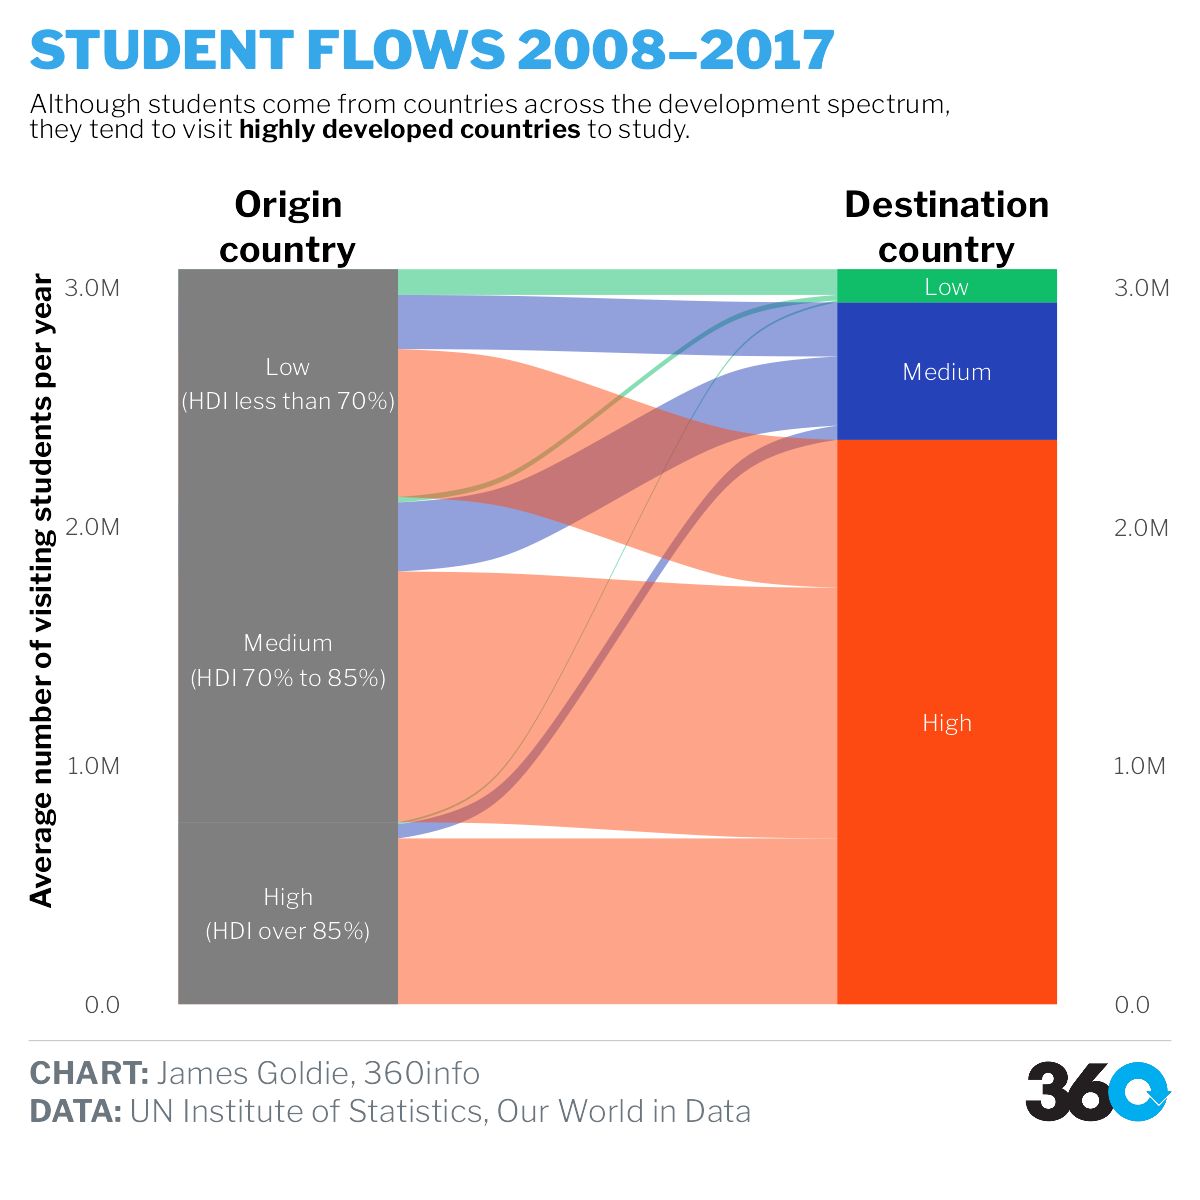
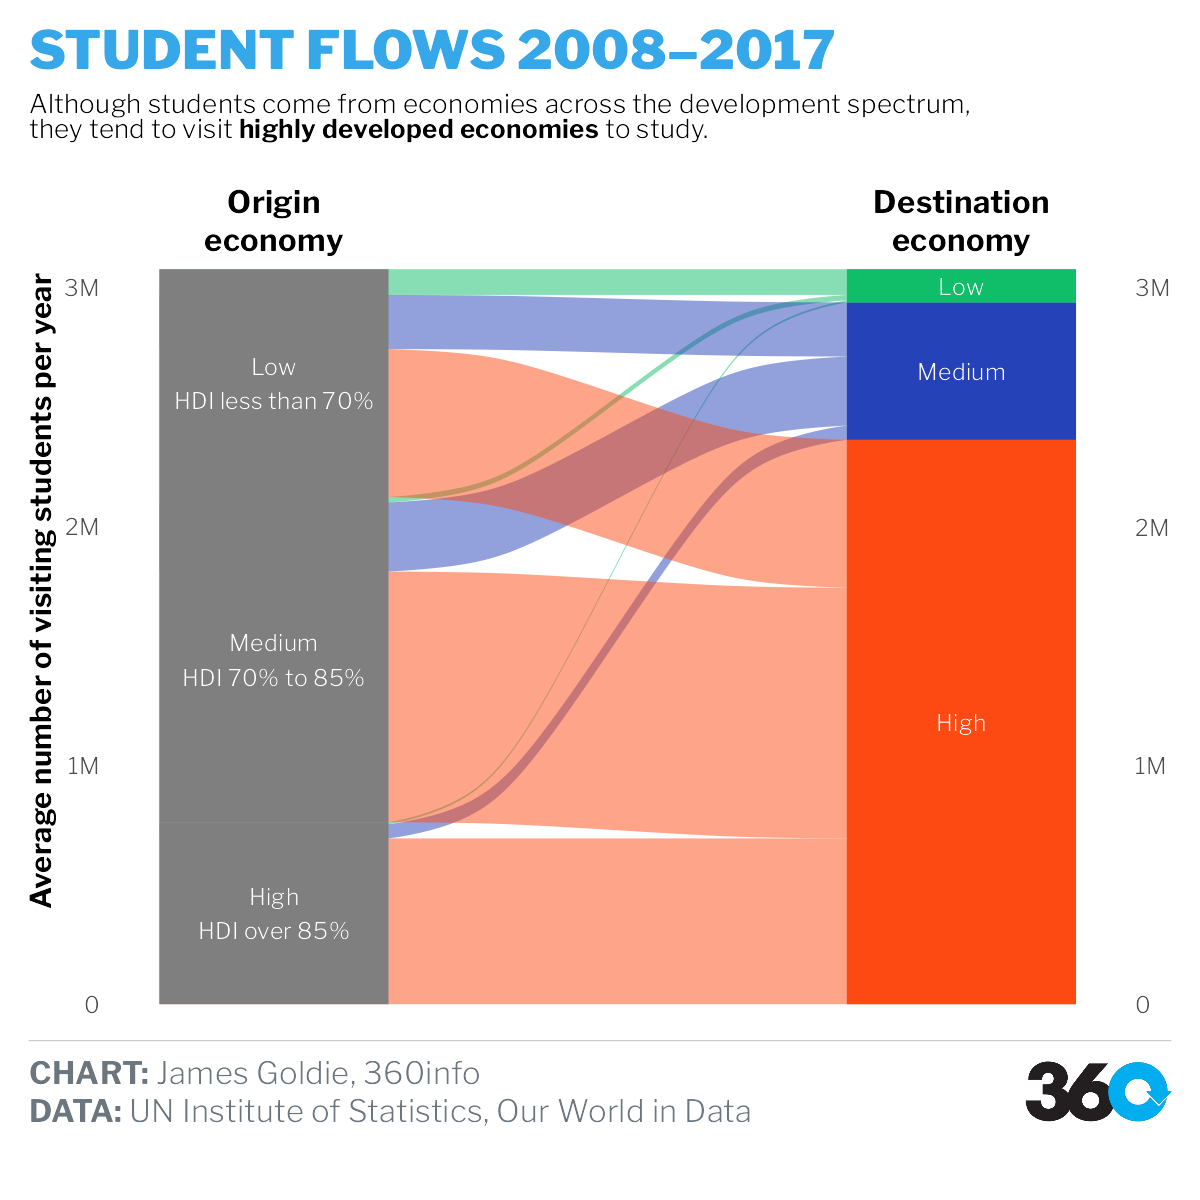
Add embed codes

diff --git a/out/index.html b/out/index.html
@@ -870,9 +870,9 @@ using the `.groups` argument.</code></pre>
 <span id="cb43-6"><a href="#cb43-6" aria-hidden="true" tabindex="-1"></a>  <span class="fu">ungroup</span>() <span class="sc">%&gt;%</span></span>
 <span id="cb43-7"><a href="#cb43-7" aria-hidden="true" tabindex="-1"></a>  <span class="fu">mutate</span>(</span>
 <span id="cb43-8"><a href="#cb43-8" aria-hidden="true" tabindex="-1"></a>    <span class="at">origin_hdi_bin =</span> <span class="fu">recode</span>(origin_hdi_bin,</span>
-<span id="cb43-9"><a href="#cb43-9" aria-hidden="true" tabindex="-1"></a>      <span class="st">"Low"</span> <span class="ot">=</span> <span class="st">"Low</span><span class="sc">\n</span><span class="st">(HDI less than 70%)"</span>,</span>
-<span id="cb43-10"><a href="#cb43-10" aria-hidden="true" tabindex="-1"></a>      <span class="st">"Medium"</span> <span class="ot">=</span> <span class="st">"Medium</span><span class="sc">\n</span><span class="st">(HDI 70% to 85%)"</span>,</span>
-<span id="cb43-11"><a href="#cb43-11" aria-hidden="true" tabindex="-1"></a>      <span class="st">"High"</span> <span class="ot">=</span> <span class="st">"High</span><span class="sc">\n</span><span class="st">(HDI over 85%)"</span>)) <span class="sc">%&gt;%</span></span>
+<span id="cb43-9"><a href="#cb43-9" aria-hidden="true" tabindex="-1"></a>      <span class="st">"Low"</span> <span class="ot">=</span> <span class="st">"Low</span><span class="sc">\n</span><span class="st">HDI less than 70%"</span>,</span>
+<span id="cb43-10"><a href="#cb43-10" aria-hidden="true" tabindex="-1"></a>      <span class="st">"Medium"</span> <span class="ot">=</span> <span class="st">"Medium</span><span class="sc">\n</span><span class="st">HDI 70% to 85%"</span>,</span>
+<span id="cb43-11"><a href="#cb43-11" aria-hidden="true" tabindex="-1"></a>      <span class="st">"High"</span> <span class="ot">=</span> <span class="st">"High</span><span class="sc">\n</span><span class="st">HDI over 85%"</span>)) <span class="sc">%&gt;%</span></span>
 <span id="cb43-12"><a href="#cb43-12" aria-hidden="true" tabindex="-1"></a>  <span class="fu">print</span>() <span class="sc">%&gt;%</span></span>
 <span id="cb43-13"><a href="#cb43-13" aria-hidden="true" tabindex="-1"></a>  {</span>
 <span id="cb43-14"><a href="#cb43-14" aria-hidden="true" tabindex="-1"></a>    <span class="fu">ggplot</span>(.) <span class="sc">+</span></span>
@@ -884,17 +884,17 @@ using the `.groups` argument.</code></pre>
 <span id="cb43-20"><a href="#cb43-20" aria-hidden="true" tabindex="-1"></a>      <span class="fu">geom_text</span>(<span class="at">stat =</span> <span class="st">"stratum"</span>, <span class="fu">aes</span>(<span class="at">label =</span> <span class="fu">after_stat</span>(stratum)),</span>
 <span id="cb43-21"><a href="#cb43-21" aria-hidden="true" tabindex="-1"></a>        <span class="at">family =</span> <span class="st">"Body 360info"</span>, <span class="at">colour =</span> <span class="st">"white"</span>, <span class="at">size =</span> <span class="fl">4.5</span>) <span class="sc">+</span></span>
 <span id="cb43-22"><a href="#cb43-22" aria-hidden="true" tabindex="-1"></a>      <span class="fu">scale_y_continuous</span>(</span>
-<span id="cb43-23"><a href="#cb43-23" aria-hidden="true" tabindex="-1"></a>        <span class="at">labels =</span> scales<span class="sc">::</span><span class="fu">label_number_si</span>(<span class="at">accuracy =</span> <span class="fl">0.1</span>),</span>
+<span id="cb43-23"><a href="#cb43-23" aria-hidden="true" tabindex="-1"></a>        <span class="at">labels =</span> scales<span class="sc">::</span><span class="fu">label_number_si</span>(<span class="at">accuracy =</span> <span class="dv">1</span>),</span>
 <span id="cb43-24"><a href="#cb43-24" aria-hidden="true" tabindex="-1"></a>        <span class="at">sec.axis =</span> <span class="fu">dup_axis</span>(),</span>
 <span id="cb43-25"><a href="#cb43-25" aria-hidden="true" tabindex="-1"></a>        <span class="at">expand =</span> <span class="fu">expansion</span>(<span class="at">mult =</span> <span class="fu">c</span>(<span class="dv">0</span>, <span class="fl">0.125</span>))) <span class="sc">+</span></span>
 <span id="cb43-26"><a href="#cb43-26" aria-hidden="true" tabindex="-1"></a>      <span class="fu">scale_fill_manual</span>(</span>
 <span id="cb43-27"><a href="#cb43-27" aria-hidden="true" tabindex="-1"></a>        <span class="at">values =</span> <span class="fu">c</span>(<span class="st">"Low"</span> <span class="ot">=</span> <span class="st">"#10bd69"</span>, <span class="st">"Medium"</span> <span class="ot">=</span> <span class="st">"#2542b8"</span>, <span class="st">"High"</span> <span class="ot">=</span> <span class="st">"#fc4a12"</span>),</span>
 <span id="cb43-28"><a href="#cb43-28" aria-hidden="true" tabindex="-1"></a>        <span class="at">guide =</span> <span class="cn">NULL</span>) <span class="sc">+</span></span>
 <span id="cb43-29"><a href="#cb43-29" aria-hidden="true" tabindex="-1"></a>      <span class="co"># label origin/destination columns</span></span>
-<span id="cb43-30"><a href="#cb43-30" aria-hidden="true" tabindex="-1"></a>      <span class="fu">annotate_360_glasslight</span>(<span class="at">x =</span> <span class="dv">1</span>, <span class="at">y =</span> <span class="cn">Inf</span>, <span class="at">label =</span> <span class="st">"Origin&lt;br&gt;country"</span>,</span>
-<span id="cb43-31"><a href="#cb43-31" aria-hidden="true" tabindex="-1"></a>        <span class="at">vjust =</span> <span class="st">"inward"</span>, <span class="at">fontface =</span> <span class="st">"bold"</span>, <span class="at">size =</span> <span class="dv">7</span>) <span class="sc">+</span></span>
-<span id="cb43-32"><a href="#cb43-32" aria-hidden="true" tabindex="-1"></a>      <span class="fu">annotate_360_glasslight</span>(<span class="at">x =</span> <span class="dv">2</span>, <span class="at">y =</span> <span class="cn">Inf</span>, <span class="at">label =</span> <span class="st">"Destination&lt;br&gt;country"</span>,</span>
-<span id="cb43-33"><a href="#cb43-33" aria-hidden="true" tabindex="-1"></a>        <span class="at">vjust =</span> <span class="st">"inward"</span>, <span class="at">fontface =</span> <span class="st">"bold"</span>, <span class="at">size =</span> <span class="dv">7</span>) <span class="sc">+</span></span>
+<span id="cb43-30"><a href="#cb43-30" aria-hidden="true" tabindex="-1"></a>      <span class="fu">annotate_360_glasslight</span>(<span class="at">x =</span> <span class="dv">1</span>, <span class="at">y =</span> <span class="cn">Inf</span>, <span class="at">label =</span> <span class="st">"Origin&lt;br&gt;economy"</span>,</span>
+<span id="cb43-31"><a href="#cb43-31" aria-hidden="true" tabindex="-1"></a>        <span class="at">vjust =</span> <span class="st">"inward"</span>, <span class="at">fontface =</span> <span class="st">"bold"</span>, <span class="at">size =</span> <span class="dv">6</span>) <span class="sc">+</span></span>
+<span id="cb43-32"><a href="#cb43-32" aria-hidden="true" tabindex="-1"></a>      <span class="fu">annotate_360_glasslight</span>(<span class="at">x =</span> <span class="dv">2</span>, <span class="at">y =</span> <span class="cn">Inf</span>, <span class="at">label =</span> <span class="st">"Destination&lt;br&gt;economy"</span>,</span>
+<span id="cb43-33"><a href="#cb43-33" aria-hidden="true" tabindex="-1"></a>        <span class="at">vjust =</span> <span class="st">"inward"</span>, <span class="at">fontface =</span> <span class="st">"bold"</span>, <span class="at">size =</span> <span class="dv">6</span>) <span class="sc">+</span></span>
 <span id="cb43-34"><a href="#cb43-34" aria-hidden="true" tabindex="-1"></a>      <span class="fu">theme_360</span>() <span class="sc">+</span></span>
 <span id="cb43-35"><a href="#cb43-35" aria-hidden="true" tabindex="-1"></a>      <span class="fu">theme</span>(</span>
 <span id="cb43-36"><a href="#cb43-36" aria-hidden="true" tabindex="-1"></a>        <span class="at">panel.grid.minor =</span> <span class="fu">element_blank</span>(),</span>
@@ -910,8 +910,8 @@ using the `.groups` argument.</code></pre>
 <span id="cb43-46"><a href="#cb43-46" aria-hidden="true" tabindex="-1"></a>        <span class="at">x =</span> <span class="cn">NULL</span>, <span class="at">y =</span> <span class="st">"Average number of visiting students per year"</span>,</span>
 <span id="cb43-47"><a href="#cb43-47" aria-hidden="true" tabindex="-1"></a>        <span class="at">title =</span> <span class="fu">toupper</span>(<span class="st">"Student flows 2008–2017"</span>),</span>
 <span id="cb43-48"><a href="#cb43-48" aria-hidden="true" tabindex="-1"></a>        <span class="at">subtitle =</span> <span class="fu">paste</span>(</span>
-<span id="cb43-49"><a href="#cb43-49" aria-hidden="true" tabindex="-1"></a>          <span class="st">"Although students come from countries across the development spectrum,"</span>,</span>
-<span id="cb43-50"><a href="#cb43-50" aria-hidden="true" tabindex="-1"></a>          <span class="st">"they tend to visit **highly developed countries** to study."</span>,</span>
+<span id="cb43-49"><a href="#cb43-49" aria-hidden="true" tabindex="-1"></a>          <span class="st">"Although students come from economies across the development spectrum,"</span>,</span>
+<span id="cb43-50"><a href="#cb43-50" aria-hidden="true" tabindex="-1"></a>          <span class="st">"they tend to visit **highly developed economies** to study."</span>,</span>
 <span id="cb43-51"><a href="#cb43-51" aria-hidden="true" tabindex="-1"></a>          <span class="at">sep =</span> <span class="st">"&lt;br&gt;"</span>),</span>
 <span id="cb43-52"><a href="#cb43-52" aria-hidden="true" tabindex="-1"></a>        <span class="at">caption =</span> <span class="fu">paste</span>(</span>
 <span id="cb43-53"><a href="#cb43-53" aria-hidden="true" tabindex="-1"></a>          <span class="st">"**CHART:** James Goldie, 360info"</span>,</span>
@@ -929,17 +929,17 @@ using the `.groups` argument.</code></pre>
 </div>
 <div class="cell-output-stdout">
 <pre><code># A tibble: 9 × 3
-  origin_hdi_bin             dest_hdi_bin avg_students
-  &lt;fct&gt;                      &lt;fct&gt;               &lt;dbl&gt;
-1 "Low\n(HDI less than 70%)" Low               107708.
-2 "Low\n(HDI less than 70%)" Medium            226533.
-3 "Low\n(HDI less than 70%)" High              619061.
-4 "Medium\n(HDI 70% to 85%)" Low                22779.
-5 "Medium\n(HDI 70% to 85%)" Medium            289125.
-6 "Medium\n(HDI 70% to 85%)" High             1049024.
-7 "High\n(HDI over 85%)"     Low                 8491.
-8 "High\n(HDI over 85%)"     Medium             59578.
-9 "High\n(HDI over 85%)"     High              693972.</code></pre>
+  origin_hdi_bin           dest_hdi_bin avg_students
+  &lt;fct&gt;                    &lt;fct&gt;               &lt;dbl&gt;
+1 "Low\nHDI less than 70%" Low               107708.
+2 "Low\nHDI less than 70%" Medium            226533.
+3 "Low\nHDI less than 70%" High              619061.
+4 "Medium\nHDI 70% to 85%" Low                22779.
+5 "Medium\nHDI 70% to 85%" Medium            289125.
+6 "Medium\nHDI 70% to 85%" High             1049024.
+7 "High\nHDI over 85%"     Low                 8491.
+8 "High\nHDI over 85%"     Medium             59578.
+9 "High\nHDI over 85%"     High              693972.</code></pre>
 </div>
 <details>
 <summary>Code</summary>

diff --git a/out/embed-netflow-scatter.html b/out/embed-netflow-scatter.html
@@ -202,7 +202,13 @@
 <h4 id="embed-this-chart-in-your-article" class="anchored">Embed this chart in your article</h4>
 <p>Copy and paste the following code:</p>
 <div class="embedcode">
-<pre><code>&lt;strong&gt;test&lt;strong&gt;</code></pre>
+<pre><code>&lt;iframe
+  src="https://360info-studentflows.pages.dev/embed-netflow-scatter"
+  title="Chart with Human Development Index increasing to the right and Net Student Ratio increasing upward. Countries situated above the line, in blue, are receiving more students from other countries than they send out."
+  width="550"
+  height="560"
+  scrolling="no"
+  style="border:none;"&gt;&lt;/iframe&gt;</code></pre>
 </div>
 <h4 id="get-the-data-and-code" class="anchored">Get the data and code</h4>
 <p>Visit the <a href="https://github.com/360-info/report-global-education/tree/main/data">GitHub repository</a> to:</p>

diff --git a/out/embed-bycountry.html b/out/embed-bycountry.html
@@ -331,7 +331,13 @@
 <h4 id="embed-this-chart-in-your-article" class="anchored">Embed this chart in your article</h4>
 <p>Copy and paste the following code:</p>
 <div class="embedcode">
-<pre><code>&lt;strong&gt;test&lt;strong&gt;</code></pre>
+<pre><code>&lt;iframe
+  src="https://360info-studentflows.pages.dev/embed-bycountry"
+  title="Interactive charts showing the two-way flow of international students through a selected country for a selected year."
+  width="550"
+  height="850"
+  scrolling="no"
+  style="border:none;"&gt;&lt;/iframe&gt;</code></pre>
 </div>
 <h4 id="get-the-data-and-code" class="anchored">Get the data and code</h4>
 <p>Visit the <a href="https://github.com/360-info/report-global-education/tree/main/data">GitHub repository</a> to:</p>
